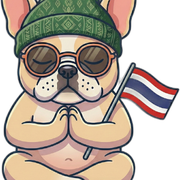
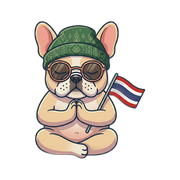
chore(seo): update google site verification tag

diff --git a/src/app/[locale]/layout.tsx b/src/app/[locale]/layout.tsx
@@ -70,7 +70,7 @@ export const metadata: Metadata = {
     creator: "@nomad_place",
   },
   verification: {
-    google: "pwAWlIPQ24eVdNIJiOk6Lo8LFQOOjVJqT8-RKCSp0_E",
+    google: "orOsM-QcOd4leoiqTyqlgBR92c9PtfwjKDVGQcOXVIk",
   },
 };
 
